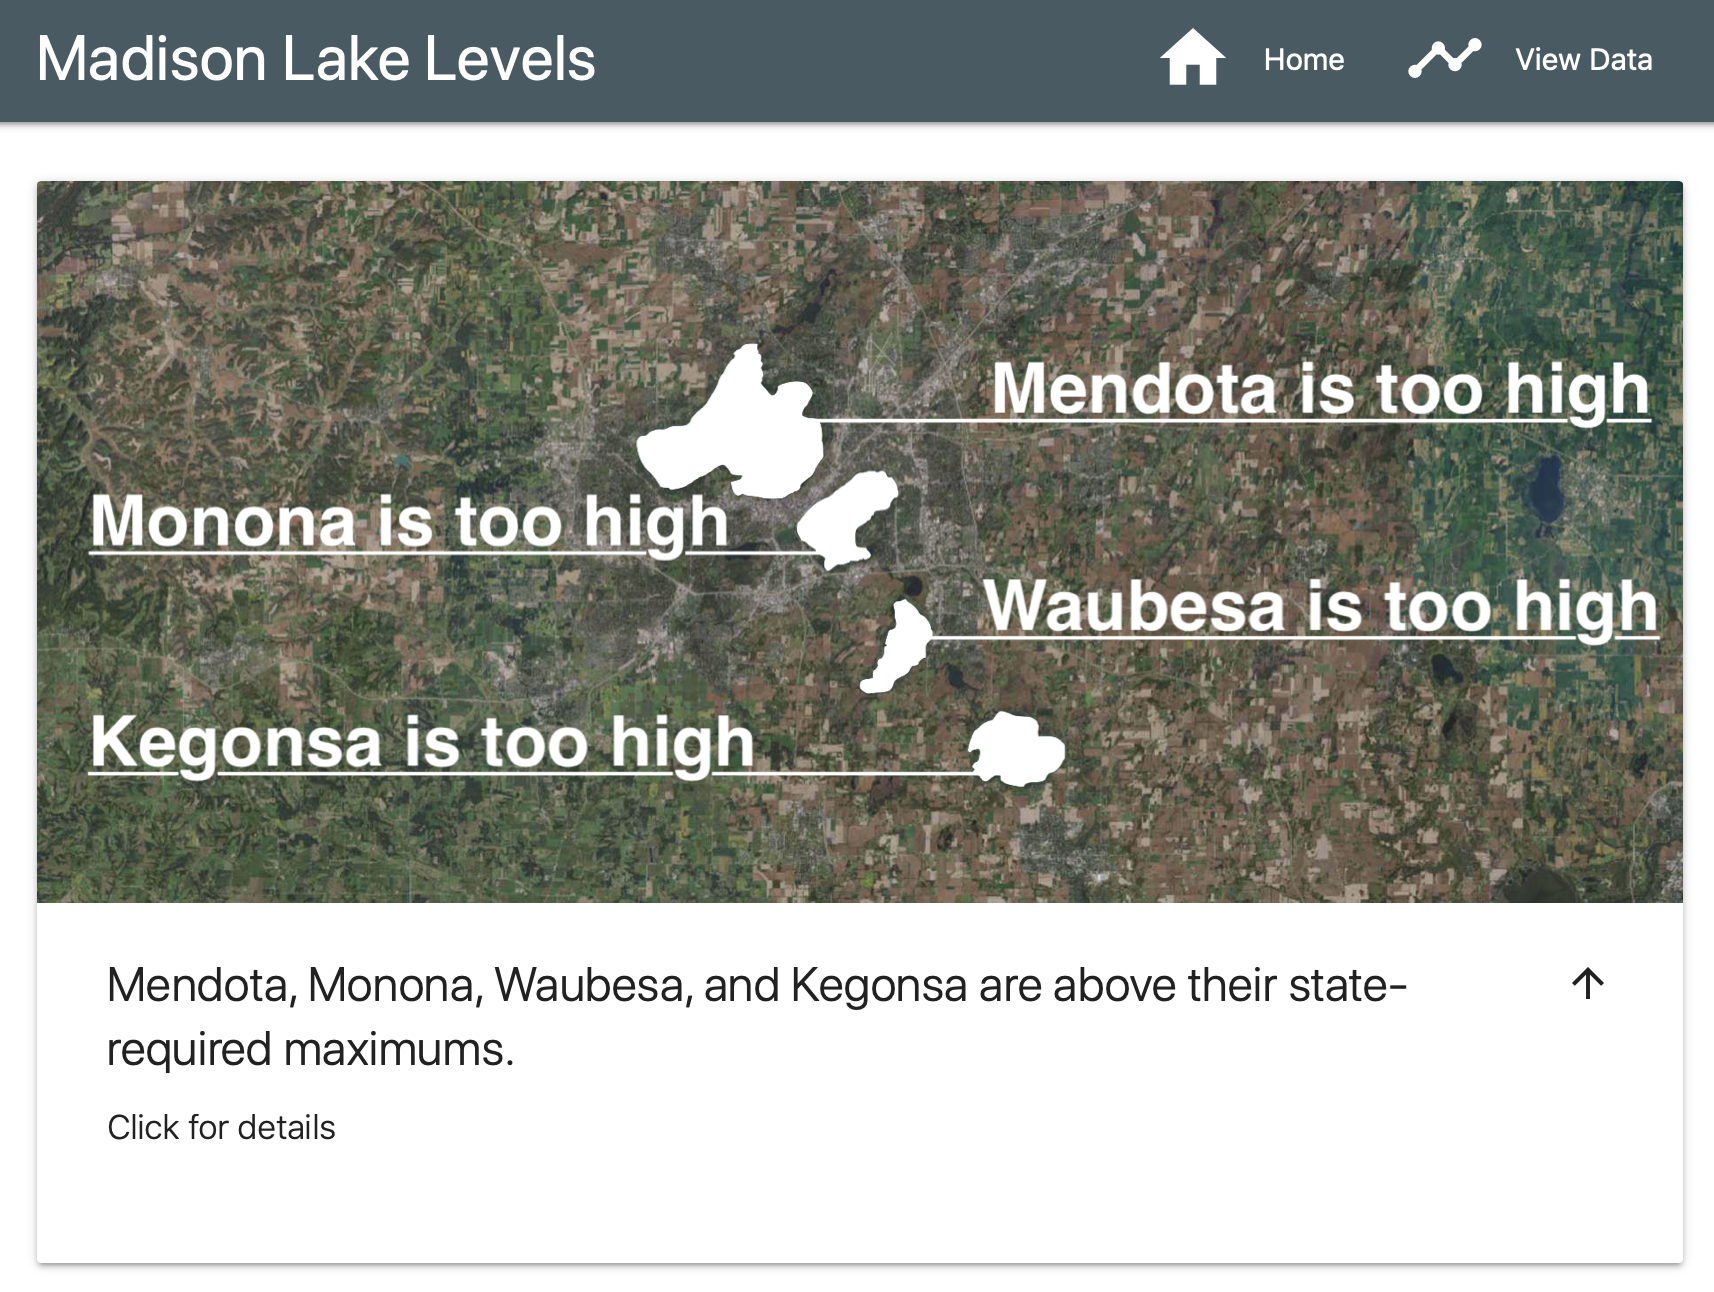
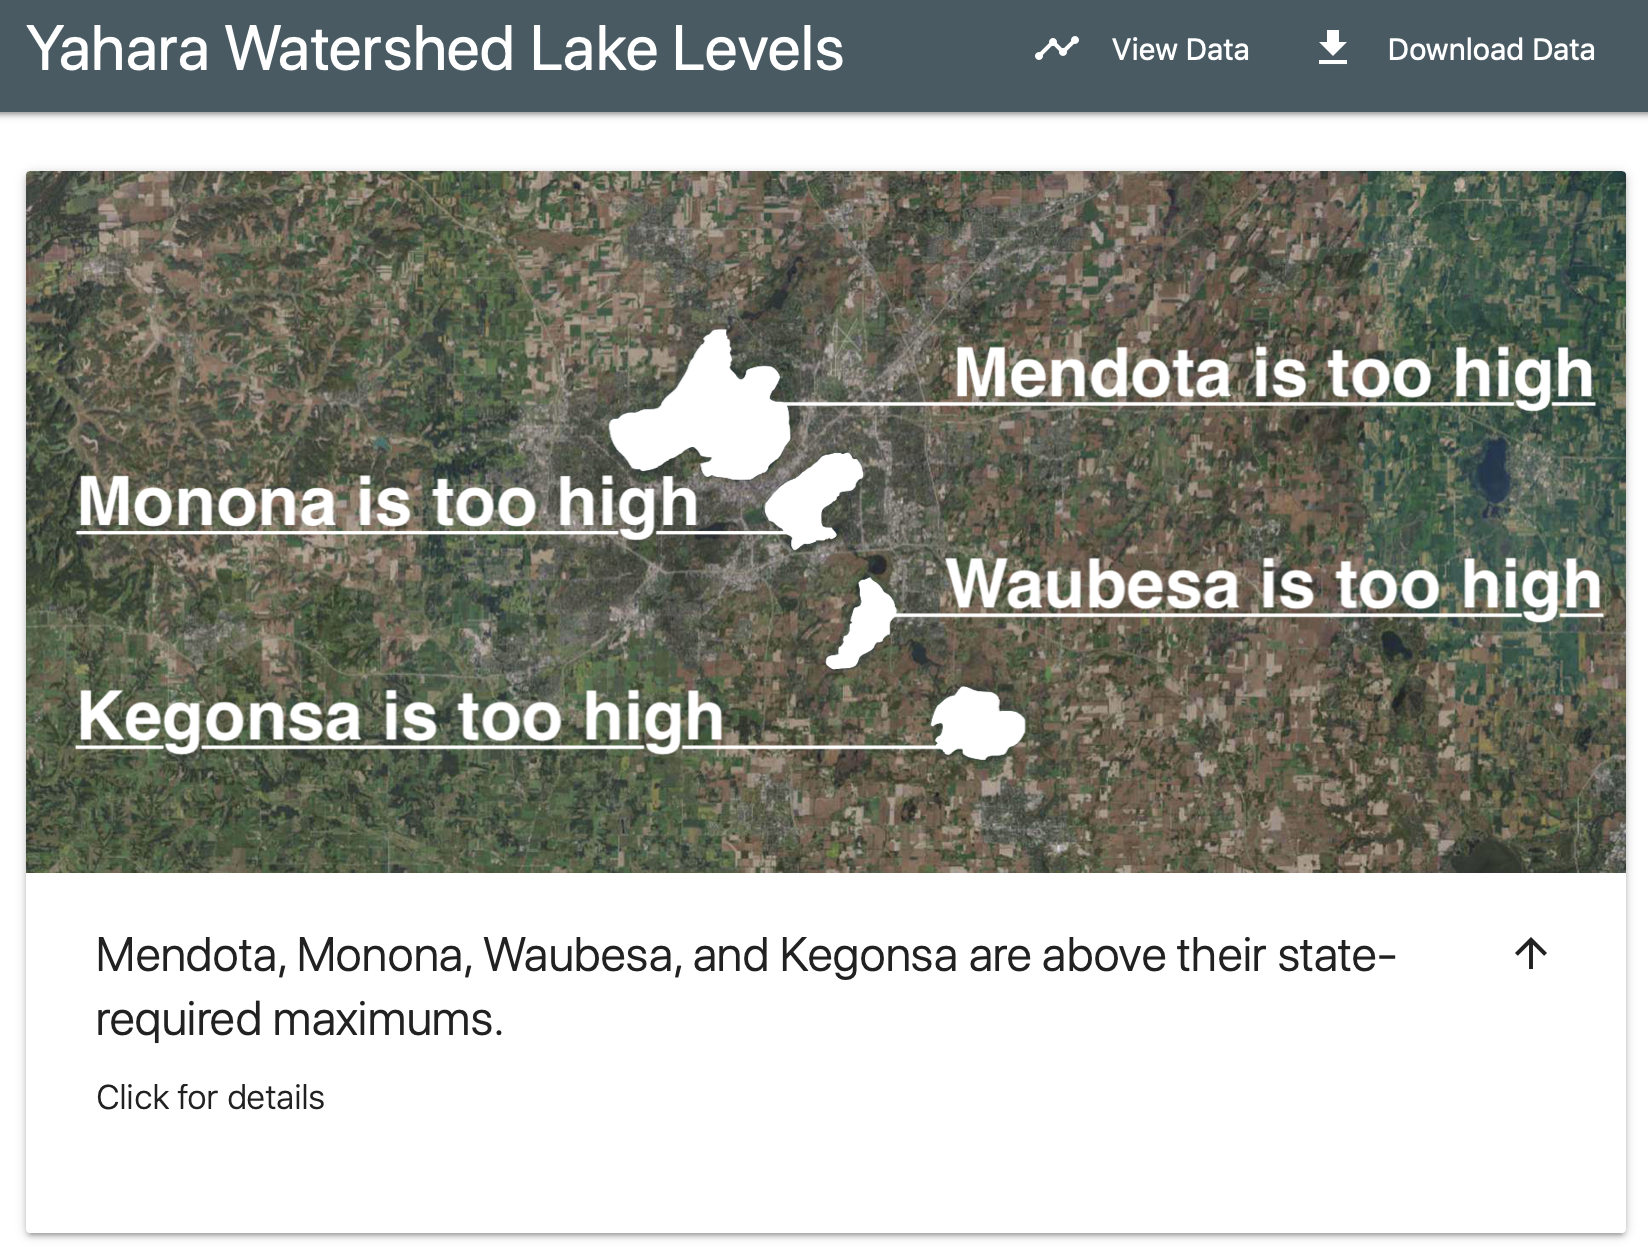
tweak README based off rebranding

diff --git a/README.md b/README.md
@@ -1,8 +1,8 @@
-![](/static/website-image.png)
+[![](/static/website-image.png)](http://www.yahara.info)
 
-# Madison's lake levels
+# Lake levels from the Yahara Watershed
 
-https://madison-lake-levels.herokuapp.com/
+http://www.yahara.info
 
 Madison Wisconsin and the surrounding Dane County saw near record level rainfalls in late August. Widespread flooding caused over two hundred million dollars in damage ([Associated Press](https://apnews.com/15a2ca91bcb94840bceb192365cf01a1)).
 
